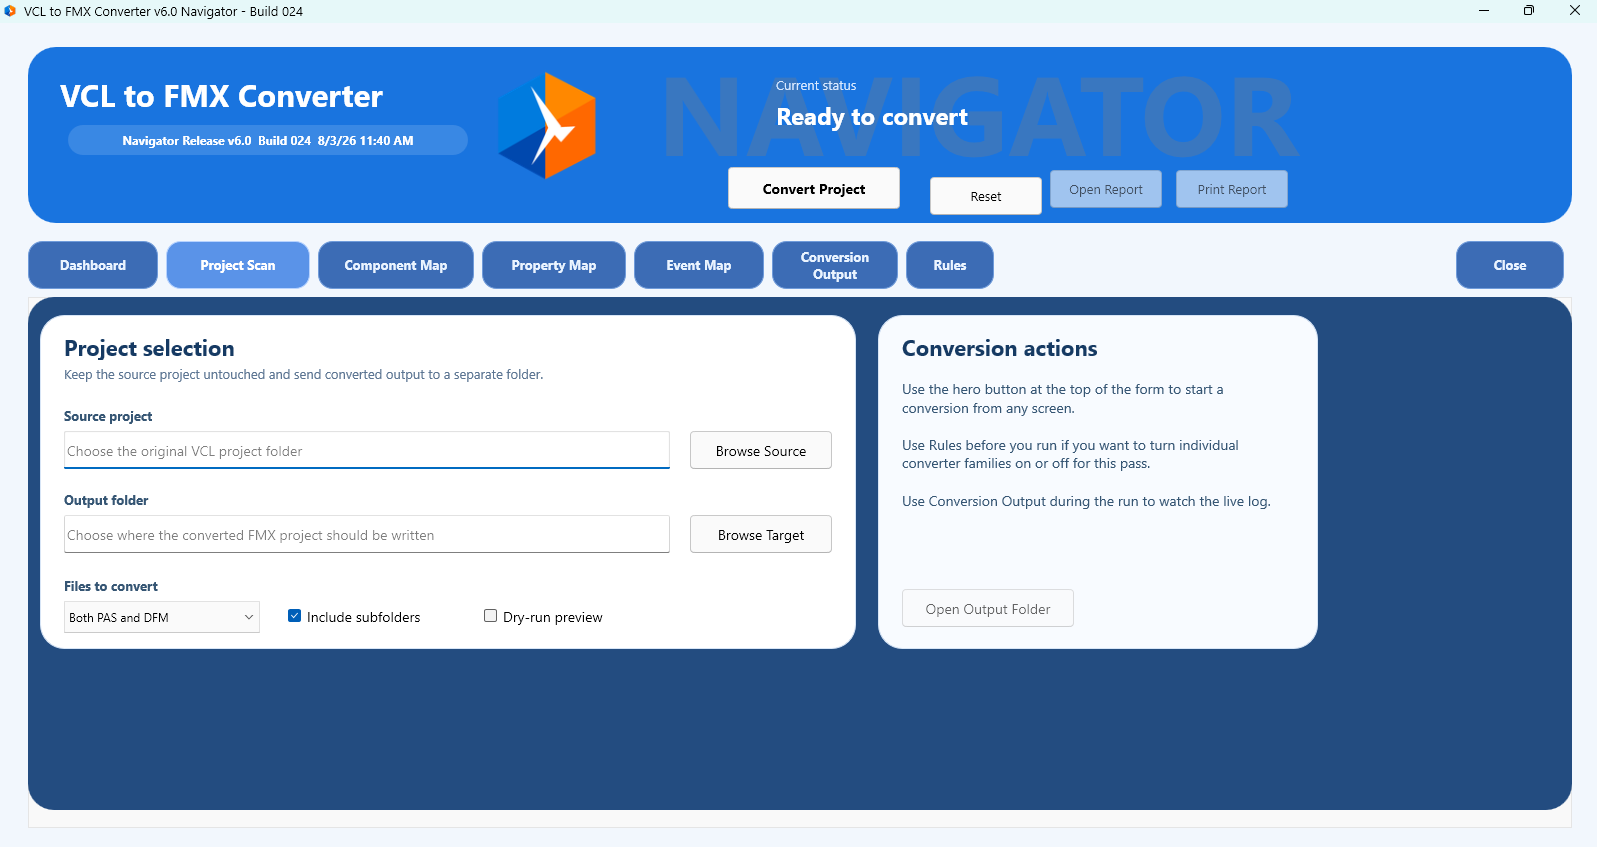
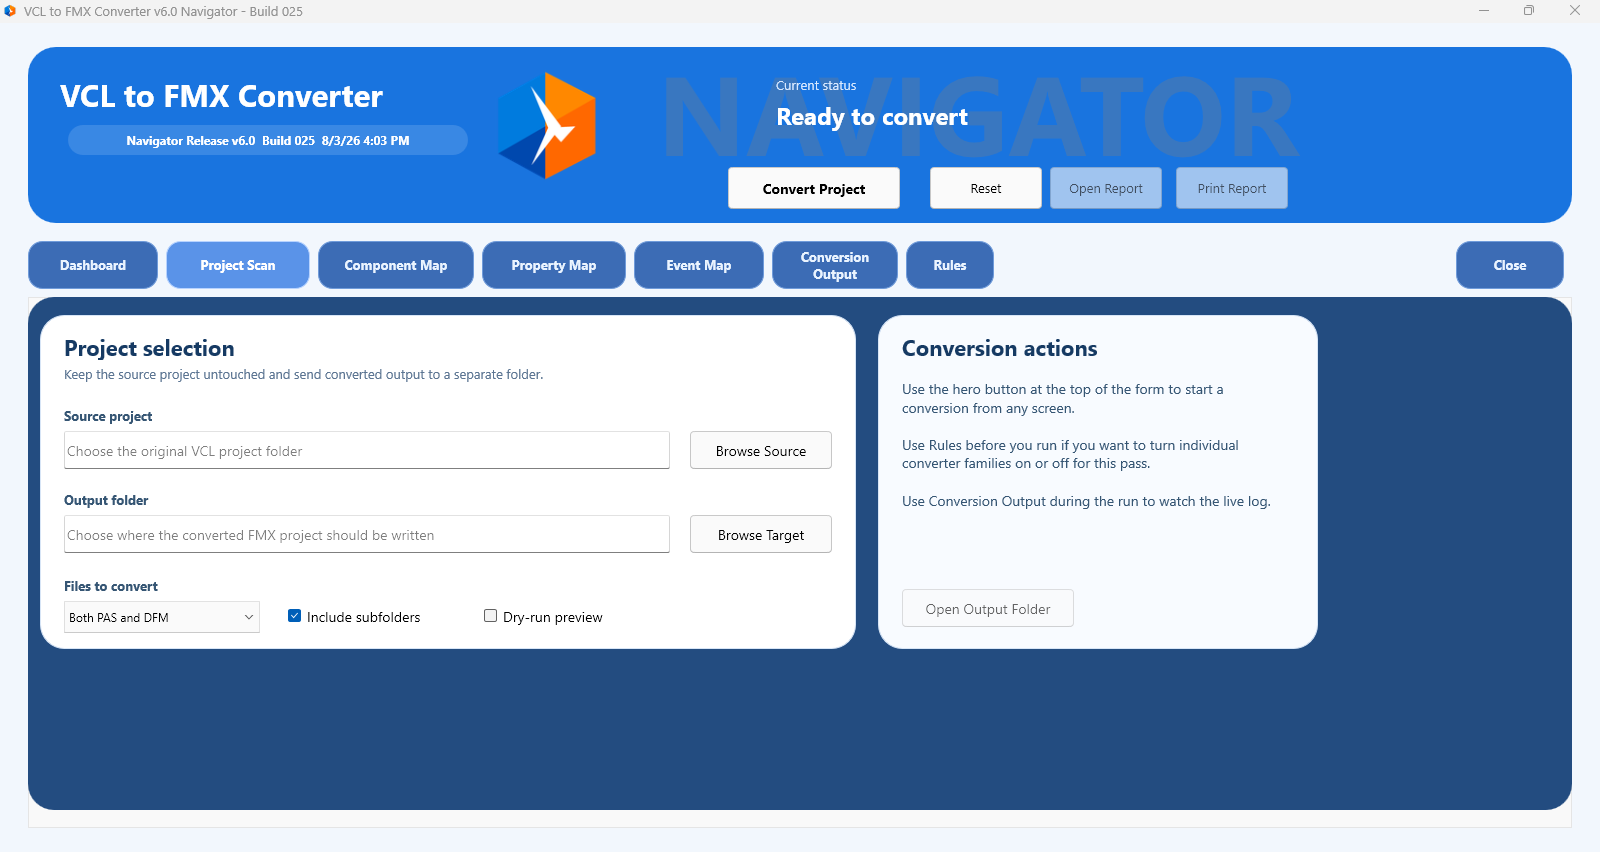
Align Build 025 hero buttons and refresh website screenshot

diff --git a/downloads.html b/downloads.html
@@ -8,12 +8,12 @@
   <link rel="canonical" href="https://vcl2fmx.github.io/downloads.html">
   <meta property="og:type" content="website">
   <meta property="og:site_name" content="VCL2FMXConverter">
-  <meta property="og:title" content="VCL2FMXConverter v6.0 Navigator — Build 024 Downloads">
-  <meta property="og:description" content="Download the v6.0 Navigator source repository, Build 024 guides, mapping references, and optional mapping-pack tools.">
+  <meta property="og:title" content="VCL2FMXConverter v6.0 Navigator — Build 025 Downloads">
+  <meta property="og:description" content="Download the v6.0 Navigator source repository, current guides, mapping references, and optional mapping-pack tools.">
   <meta property="og:url" content="https://vcl2fmx.github.io/downloads.html">
   <meta property="og:image" content="https://vcl2fmx.github.io/assets/vcl2fmx-v6-screen.png">
   <meta name="twitter:card" content="summary_large_image">
-  <meta name="twitter:title" content="VCL2FMXConverter v6.0 Navigator — Build 024 Downloads">
+  <meta name="twitter:title" content="VCL2FMXConverter v6.0 Navigator — Build 025 Downloads">
   <meta name="twitter:description" content="Source, documentation, mapping references, and optional tools for VCL2FMXConverter v6.0 Navigator.">
   <meta name="twitter:image" content="https://vcl2fmx.github.io/assets/vcl2fmx-v6-screen.png">
   <title translate="no">Downloads and Documentation | VCL2FMXConverter v6.0 Navigator</title>
@@ -48,7 +48,7 @@
     "@type": "SoftwareApplication",
     "name": "VCL2FMXConverter",
     "alternateName": "VCL2FMXConverter v6.0 Navigator",
-    "softwareVersion": "6.0 Build 024",
+    "softwareVersion": "6.0 Build 025",
     "datePublished": "2026-08-02",
     "applicationCategory": "DeveloperApplication",
     "operatingSystem": "Windows",
@@ -92,7 +92,7 @@
       <div class="shell">
         <div class="section-head">
           <p class="eyebrow">Current source repository</p>
-          <h2 id="release-title" class="notranslate" translate="no">VCL2FMXConverter v6.0 Navigator — Build 024</h2>
+          <h2 id="release-title" class="notranslate" translate="no">VCL2FMXConverter v6.0 Navigator — Build 025</h2>
           <p>The clean Delphi source, editable form, project files, mapping packs, and executable contracts needed to build, inspect, and extend the converter.</p>
         </div>
         <div class="download-list">
@@ -100,7 +100,7 @@
             <div>
               <h3>Complete source distribution</h3>
               <p>Converter source, editable FMX form, project files, 22 schema-validated mapping packs with 493 rules, 227 conversion contracts, license, and repository guidance.</p>
-              <span class="file-meta notranslate" translate="no">GitHub ZIP &middot; v6.0 Navigator Build 024 &middot; Delphi 12+</span>
+              <span class="file-meta notranslate" translate="no">GitHub ZIP &middot; v6.0 Navigator Build 025 &middot; Delphi 12+</span>
             </div>
             <a class="button" href="https://github.com/vcl2fmx/vcl2fmx.github.io/archive/refs/heads/main.zip">Download Complete Source Package</a>
           </article>
@@ -108,9 +108,9 @@
         <div class="notice">
           <p><strong>Before you begin:</strong> extract the ZIP to a normal working folder. Do not build or run the project from inside the compressed archive. Keep the original VCL project backed up and convert into a separate output folder.</p>
         </div>
-        <div class="notice maintenance-notice" aria-label="Navigator Build 024 validation update">
-          <p class="notice-label notranslate" translate="no">Navigator Build 024 Validation Update — August 3, 2026</p>
-          <p>Build 024 preserves the designer-owned FireMonkey interface and adds designer-owned minimum window constraints for the static hero layout. The release gate contains 227 conversion contracts, 65 regression guards, 63 acceptance checks, mapping-pack schema validation, field-regression guards, and Win32/Win64 Release builds. Generated applications still require developer compilation, runtime testing, and visual review.</p>
+        <div class="notice maintenance-notice" aria-label="Navigator Build 025 validation update">
+          <p class="notice-label notranslate" translate="no">Navigator Build 025 Validation Update — August 3, 2026</p>
+          <p>Build 025 aligns the designer-owned hero action buttons while preserving the minimum-window constraints and static layout safeguards established in Build 024. The release gate contains 227 conversion contracts, 65 regression guards, 63 acceptance checks, mapping-pack schema validation, field-regression guards, and Win32/Win64 Release builds. Generated applications still require developer compilation, runtime testing, and visual review.</p>
         </div>
       </div>
     </section>

diff --git a/index.html b/index.html
@@ -8,12 +8,12 @@
   <link rel="canonical" href="https://vcl2fmx.github.io/">
   <meta property="og:type" content="website">
   <meta property="og:site_name" content="VCL2FMXConverter">
-  <meta property="og:title" content="VCL2FMXConverter v6.0 Navigator — Build 024">
+  <meta property="og:title" content="VCL2FMXConverter v6.0 Navigator — Build 025">
   <meta property="og:description" content="A contract-driven Delphi VCL-to-FMX migration utility with designer-owned UI, disciplined mapping packs, deterministic reports, and compiler-backed validation.">
   <meta property="og:url" content="https://vcl2fmx.github.io/">
   <meta property="og:image" content="https://vcl2fmx.github.io/assets/vcl2fmx-v6-screen.png">
   <meta name="twitter:card" content="summary_large_image">
-  <meta name="twitter:title" content="VCL2FMXConverter v6.0 Navigator — Build 024">
+  <meta name="twitter:title" content="VCL2FMXConverter v6.0 Navigator — Build 025">
   <meta name="twitter:description" content="Contract-driven Delphi VCL-to-FMX migration with transparent reporting and compiler-backed validation.">
   <meta name="twitter:image" content="https://vcl2fmx.github.io/assets/vcl2fmx-v6-screen.png">
   <title translate="no">VCL2FMXConverter v6.0 Navigator | VCL-to-FMX Migration</title>
@@ -48,7 +48,7 @@
     "@type": "SoftwareApplication",
     "name": "VCL2FMXConverter",
     "alternateName": "VCL2FMXConverter v6.0 Navigator",
-    "softwareVersion": "6.0 Build 024",
+    "softwareVersion": "6.0 Build 025",
     "datePublished": "2026-08-02",
     "applicationCategory": "DeveloperApplication",
     "operatingSystem": "Windows",
@@ -90,7 +90,7 @@
         <aside class="release-card" aria-label="Current v6 source">
           <p class="eyebrow">Current source repository</p>
           <div class="version notranslate" translate="no">v6.0</div>
-          <span class="status notranslate" translate="no">Navigator Build 024</span>
+          <span class="status notranslate" translate="no">Navigator Build 025</span>
           <ul class="check-list">
             <li>Delphi 12+; built with Delphi 13.1</li>
             <li>227 executable conversion contracts</li>
@@ -103,9 +103,9 @@
     </section>
 
     <div class="shell">
-      <div class="notice maintenance-notice" aria-label="Navigator Build 024 validation update">
-        <p class="notice-label notranslate" translate="no">Navigator Build 024 Validation Update — August 3, 2026</p>
-        <p><span class="notranslate" translate="no">VCL2FMXConverter v6.0 Navigator</span> centers on maintainability, reporting integrity, designer-owned UI, mapping-pack discipline, and stronger validation, further reducing developer-required reviews. Build 024 adds designer-owned minimum window constraints so the static hero layout remains intact at supported desktop sizes, while retaining the compile-gated 227-contract suite. Compiler-style architecture remains a measured research track, not a release promise.</p>
+      <div class="notice maintenance-notice" aria-label="Navigator Build 025 validation update">
+        <p class="notice-label notranslate" translate="no">Navigator Build 025 Validation Update — August 3, 2026</p>
+        <p><span class="notranslate" translate="no">VCL2FMXConverter v6.0 Navigator</span> centers on maintainability, reporting integrity, designer-owned UI, mapping-pack discipline, and stronger validation, further reducing developer-required reviews. Build 025 aligns the designer-owned hero action buttons while preserving the Build 024 minimum-window safeguards and compile-gated 227-contract suite. Compiler-style architecture remains a measured research track, not a release promise. This is, by far, the most advanced release of the VCL2FMXConverter to date.</p>
       </div>
     </div>
 
@@ -117,7 +117,7 @@
           <p>The tabbed interface keeps the source project, conversion rules, live output, and component maps visible without hiding the converter's decisions.</p>
         </div>
         <figure class="product-shot">
-          <img src="assets/vcl2fmx-v6-screen.png" alt="VCL2FMXConverter v6.0 Navigator Build 024 Project Scan workspace">
+          <img src="assets/vcl2fmx-v6-screen.png" alt="VCL2FMXConverter v6.0 Navigator Build 025 Project Scan workspace">
           <figcaption>The Project Scan workspace keeps the original source untouched and sends converted FMX output to a separate folder.</figcaption>
         </figure>
       </div>

diff --git a/README.md b/README.md
@@ -1,4 +1,4 @@
-# VCL2FMXConverter v6.0 Navigator — Build 024
+# VCL2FMXConverter v6.0 Navigator — Build 025
 
 ![VCL2FMXConverter](assets/vcl2fmx-logo.png)
 
